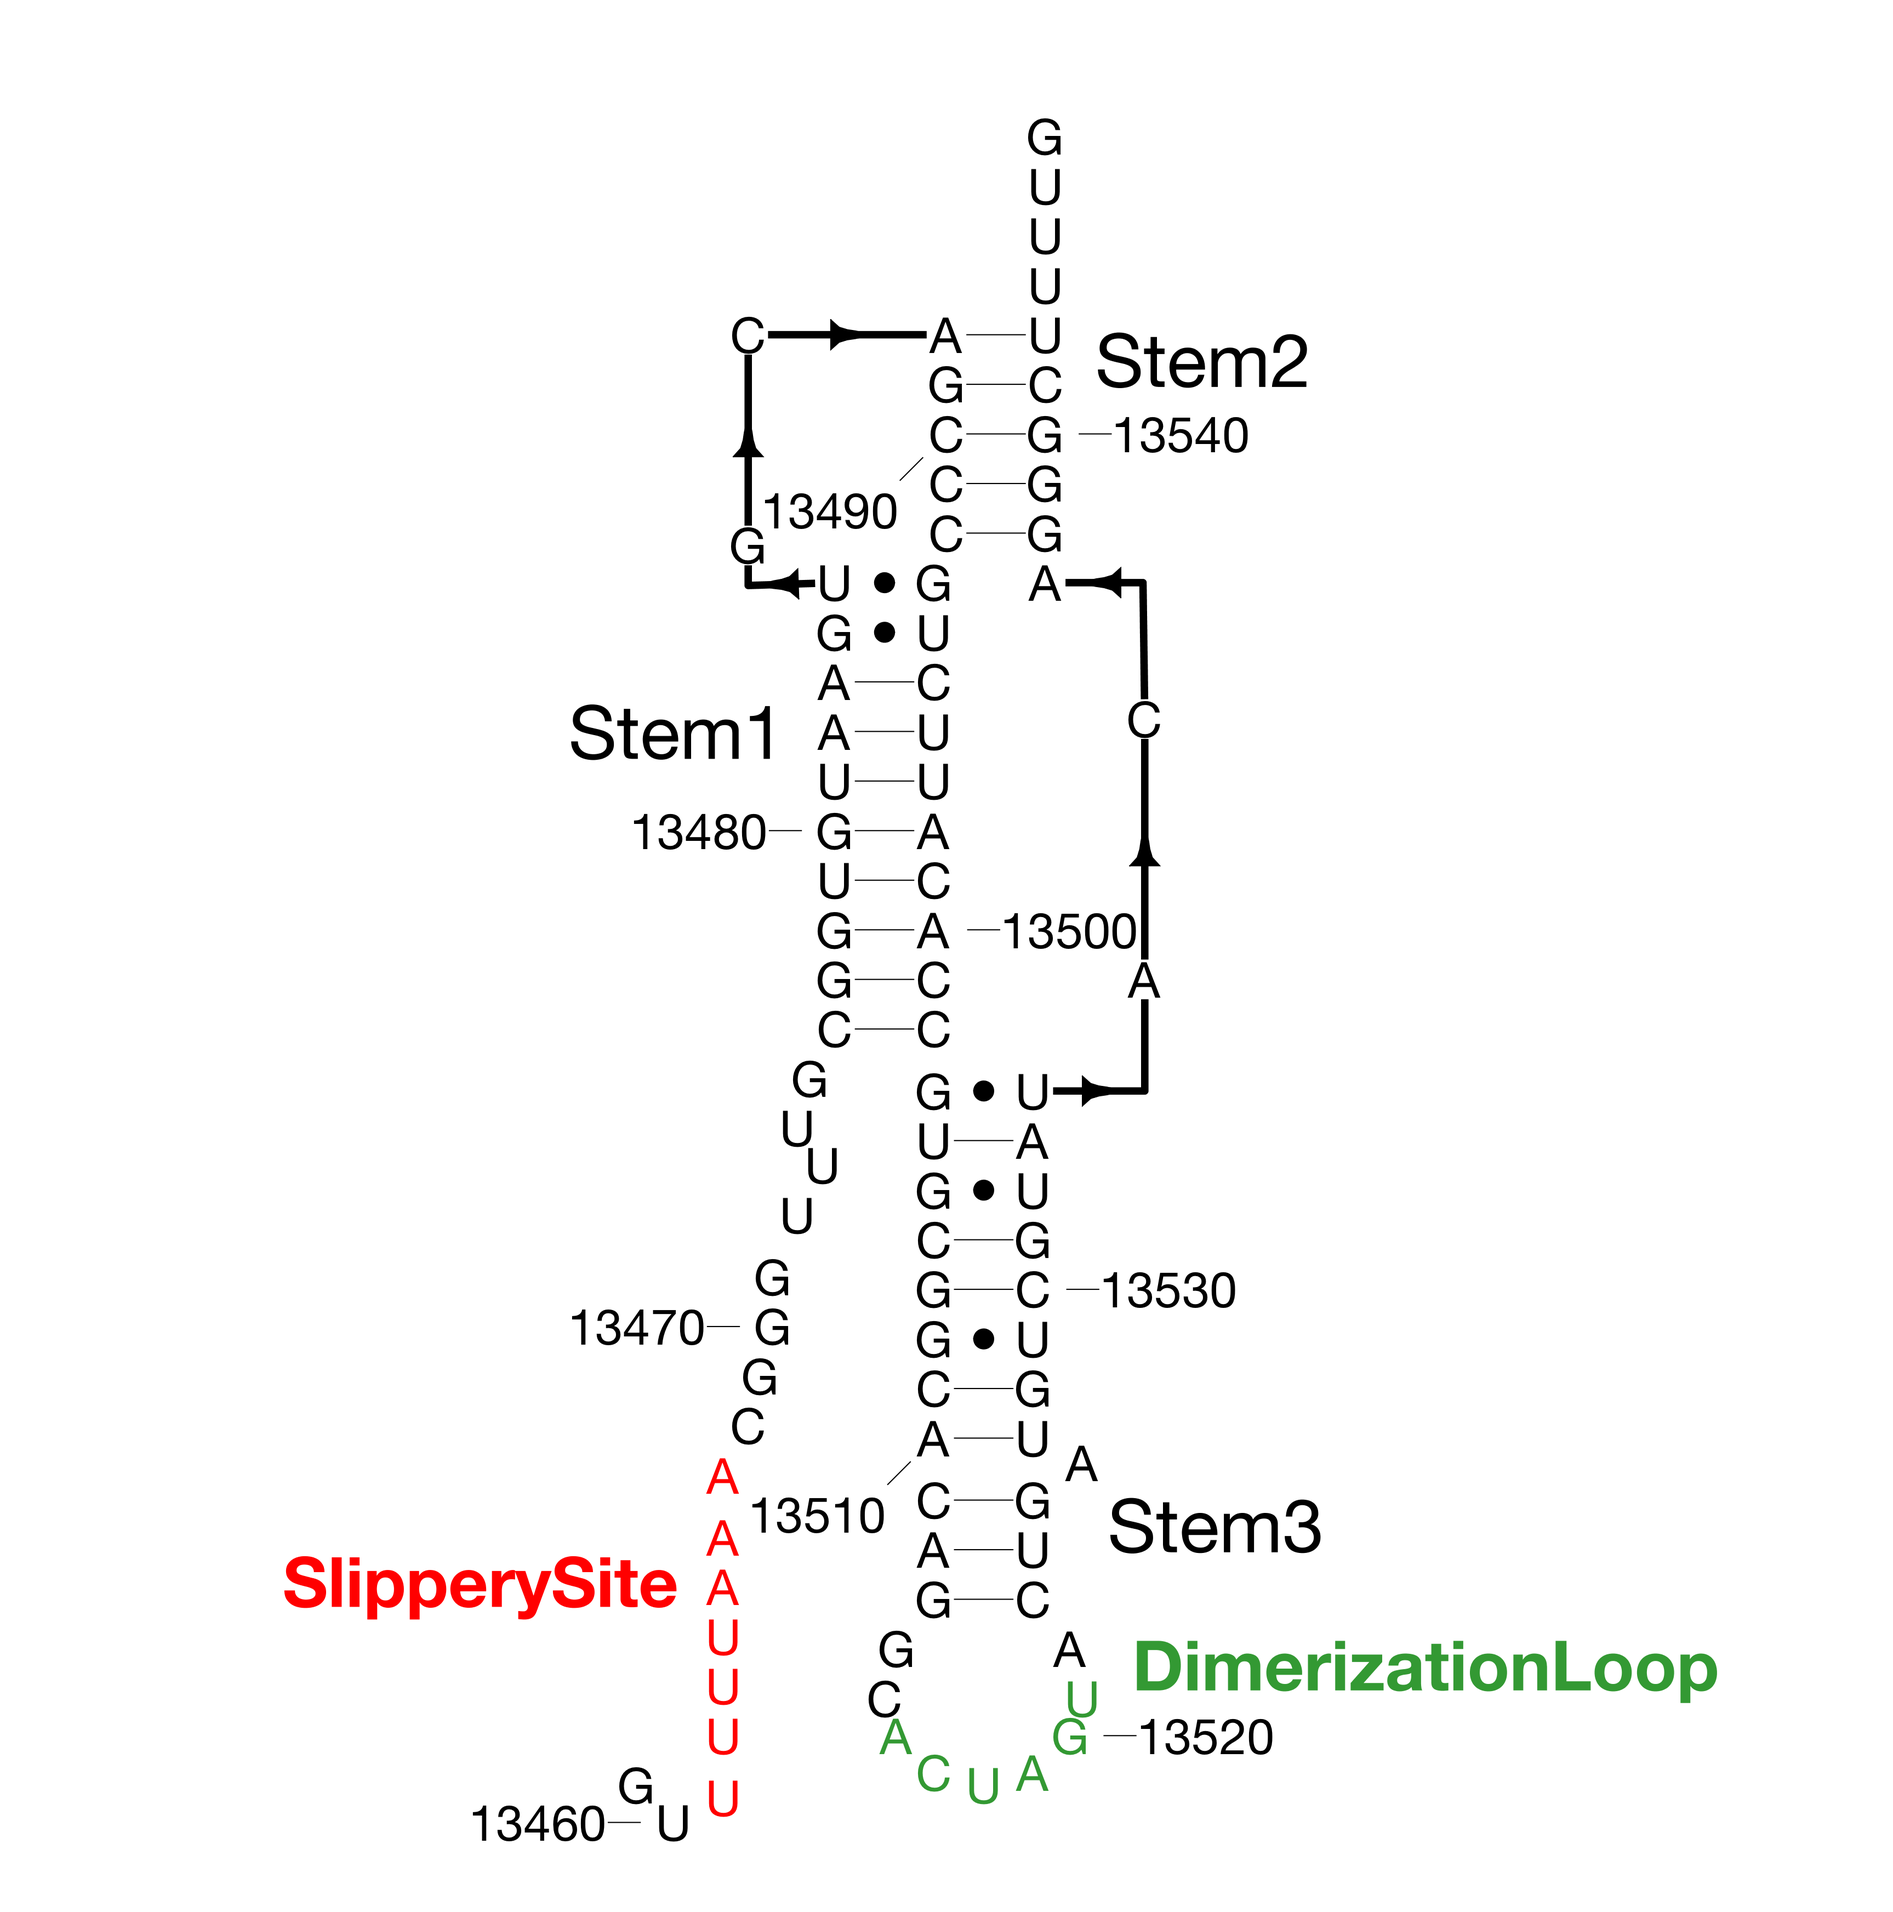
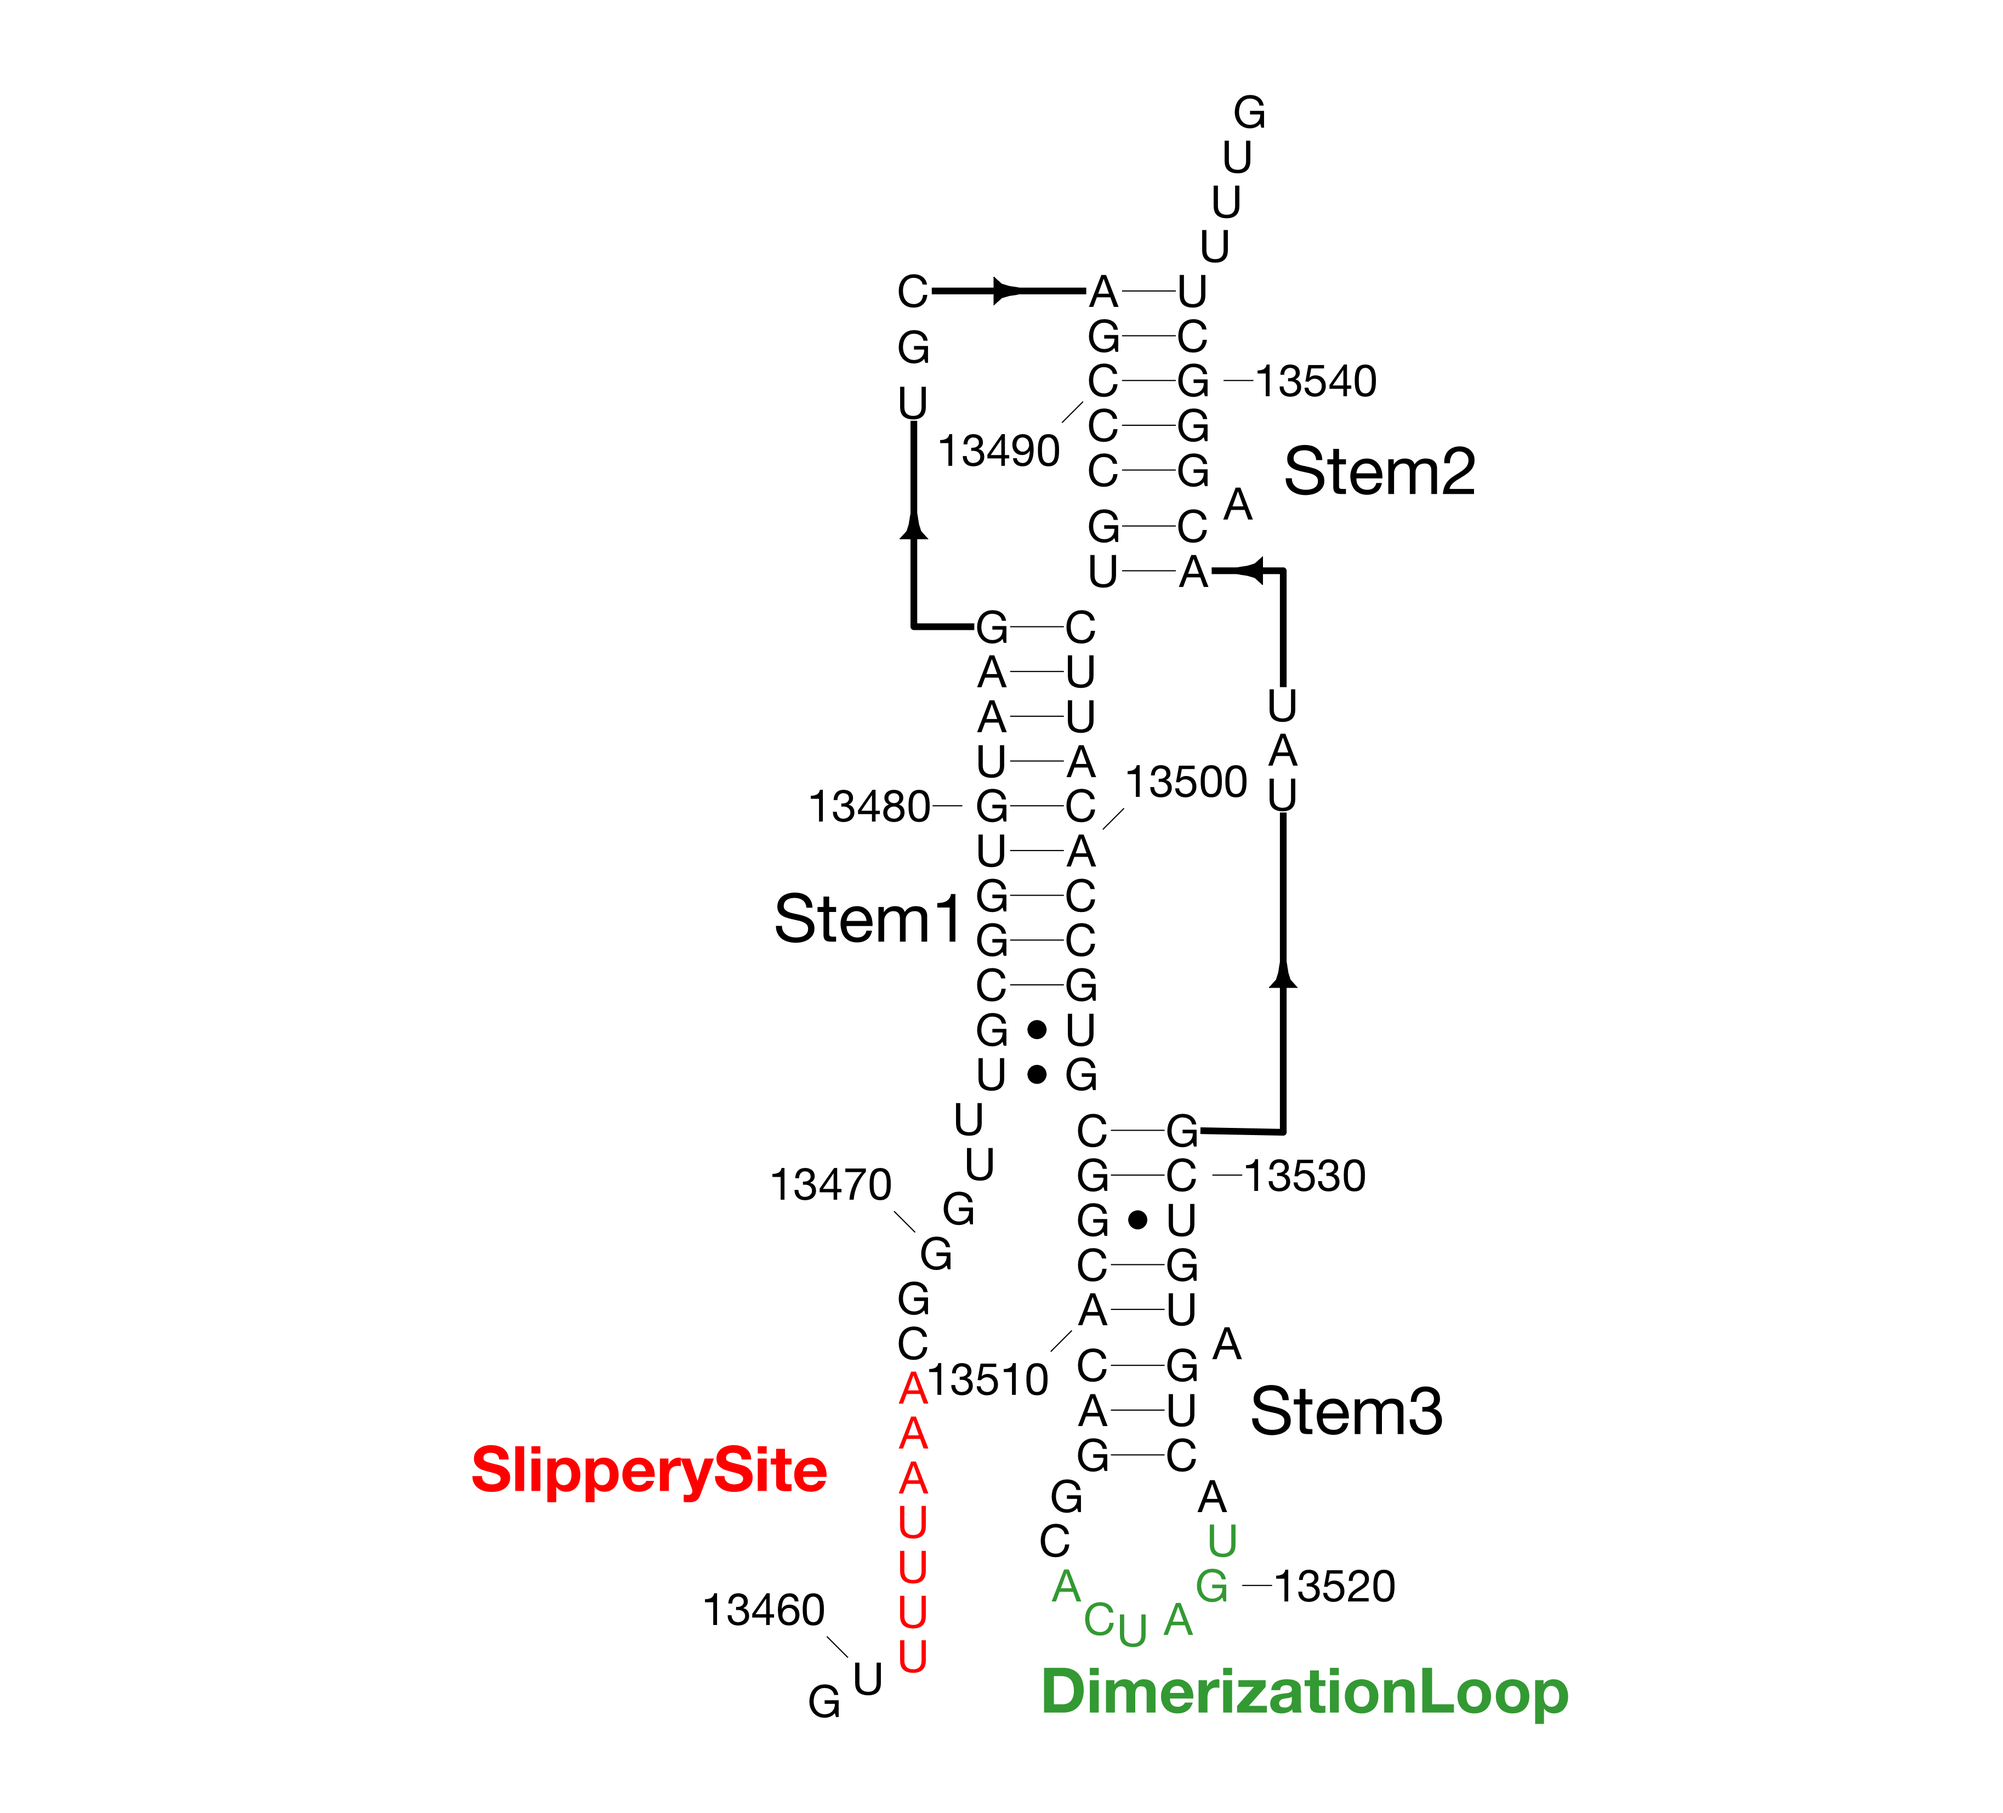
hotfix to frameshift signal

diff --git a/drawings/virus/COVID-19/frameshift/prepare_COVID19_frameshift_SCRIPT.m b/drawings/virus/COVID-19/frameshift/prepare_COVID19_frameshift_SCRIPT.m
@@ -1,11 +1,11 @@
 % prepare_COVID19_3prime_SCRIPT
 
 sequence = 'GUUUUUAAACGGGUUUGCGGUGUAAGUGCAGCCCGUCUUACACCGUGCGGCACAGGCACUAGUACUGAUGUCGUAUACAGGGCUUUUG';
-secstruct= '................(((((((((((..[[[[[))))))))))(((((((((((.........))).))))))))...]]]]]....';
+secstruct= '...............(((((((((((...[[[[[[[)))))))))))((((((((.........))).)))))...]].]]]]]....';
 resnum_string = 'A:13459-13546';
 tag = 'COVID19_frameshift';
-% initialize_files( sequence, secstruct, resnum_string, tag );
-% initialize_drawing(tag);
+initialize_files( sequence, secstruct, resnum_string, tag );
+initialize_drawing(tag);
 % update_helix_names( 'COVID19_3prime.stems.txt' );
 
 %%

diff --git a/scripts/settings/default_plot_settings.m b/scripts/settings/default_plot_settings.m
@@ -8,7 +8,7 @@ function plot_settings = default_plot_settings();
 plot_settings.fontsize    = 10;
 plot_settings.spacing     =  3;
 plot_settings.bp_spacing  =  6;
-plot_settings.boldface    =  1;
+plot_settings.boldface    =  0;
 plot_settings.show_stem_pairs = 1;
 plot_settings.show_noncanonical_pairs = 1;
 plot_settings.show_tertiary_noncanonical_pairs = 1;

diff --git a/scripts/devel/ribodraw_convert_structure_to_bps.m b/scripts/devel/ribodraw_convert_structure_to_bps.m
@@ -44,3 +44,5 @@ for i = 1:length(structure )
   end
 end
 
+assert( isempty(LEFT_BRACKET) );
+
